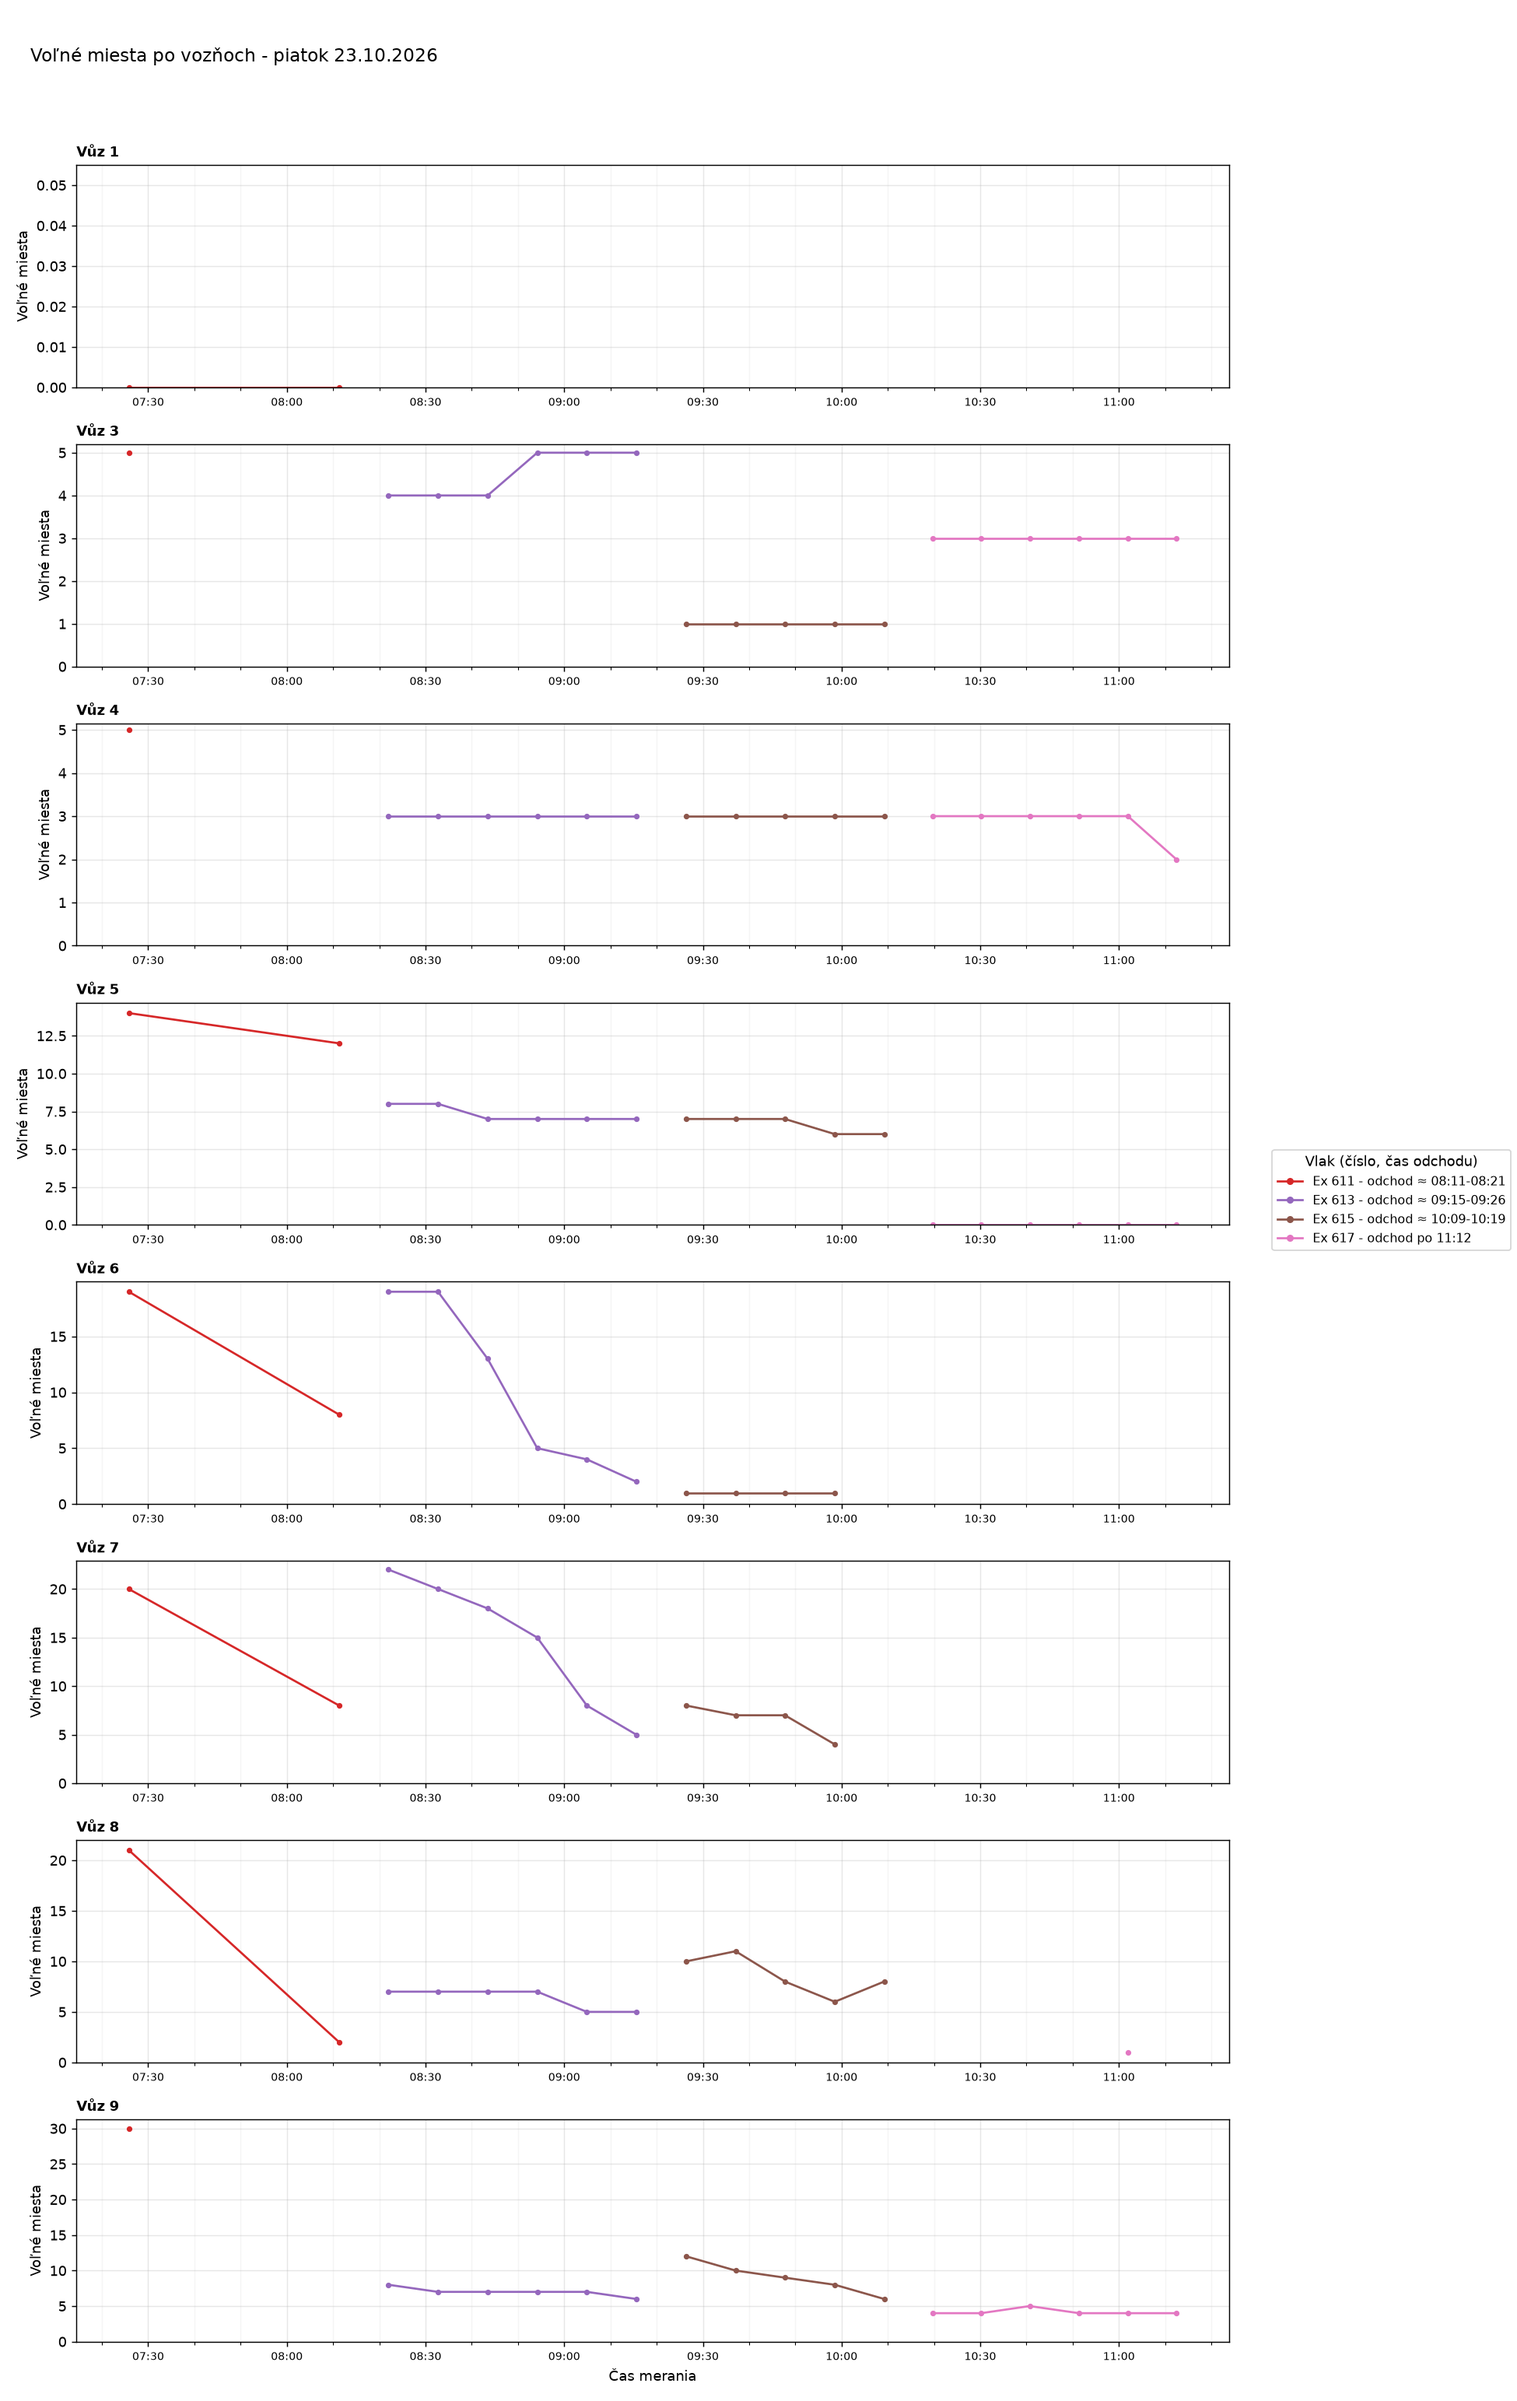
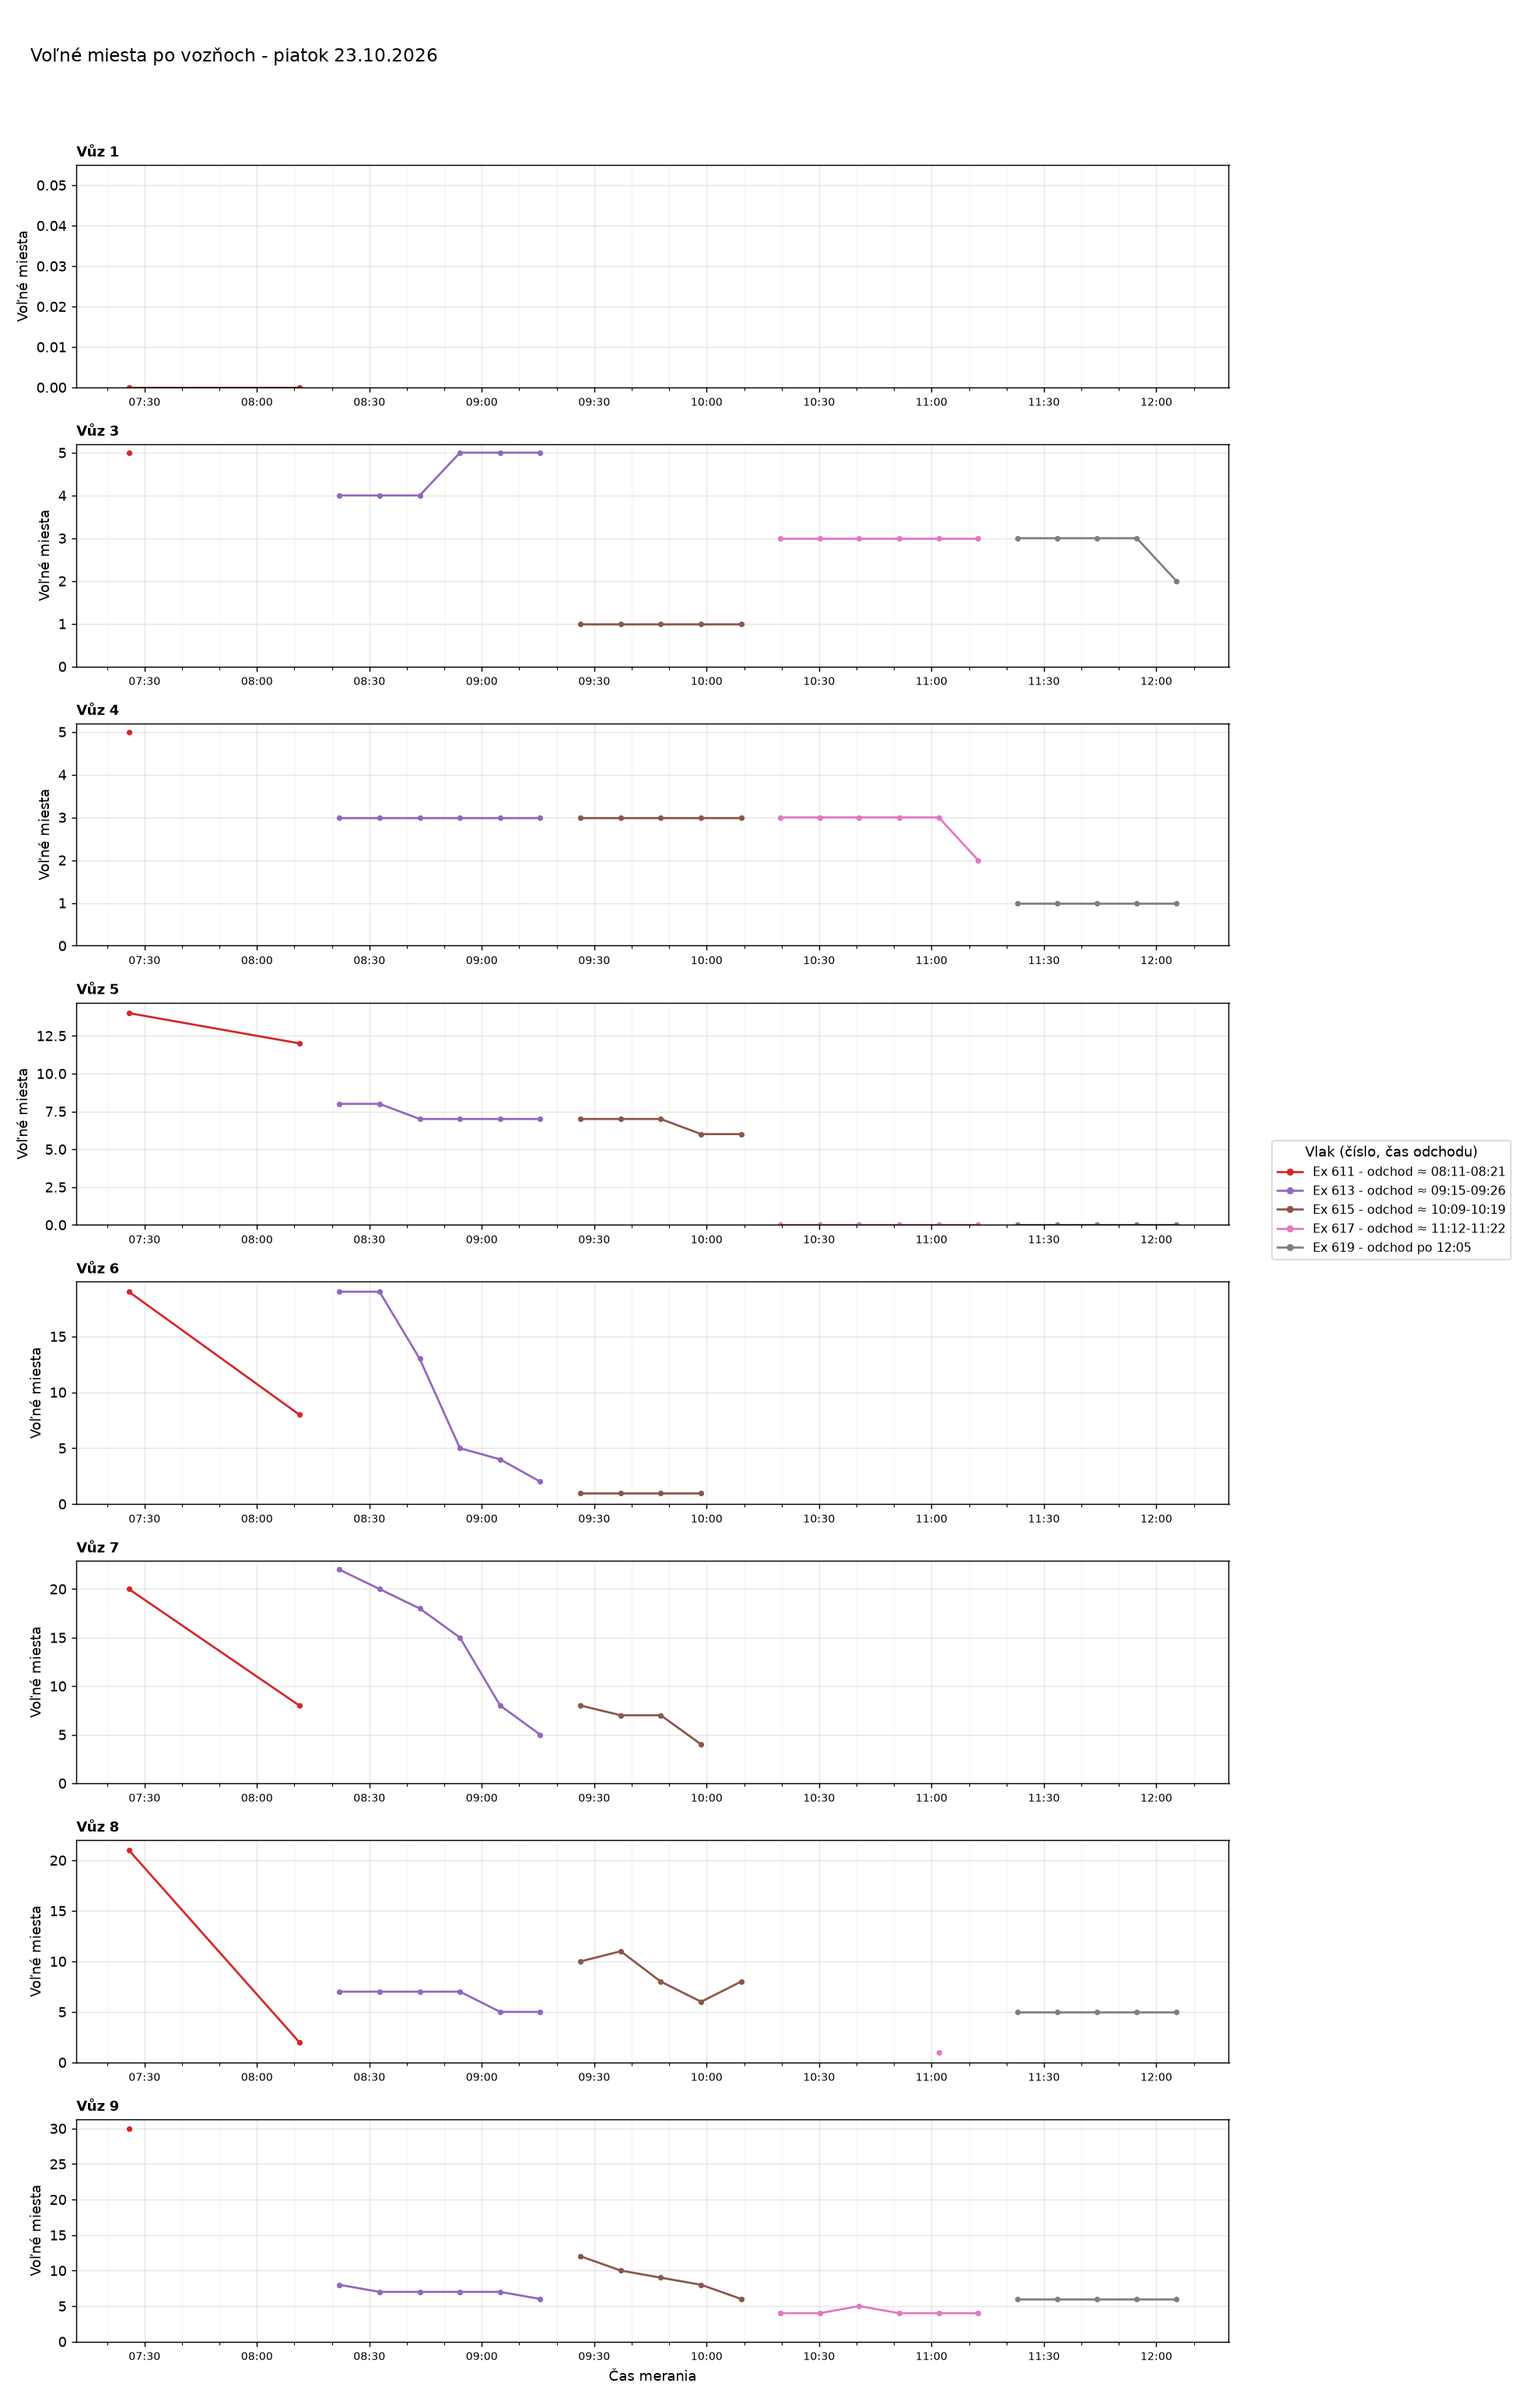
Aktualizácia grafov 2026-10-23 12:19

Changed region(s): [[0.8308, 0.4666, 1.0, 0.5288]]

diff --git a/index.html b/index.html
@@ -35,7 +35,7 @@ h2.oddiel{margin:36px 0 0;font-size:1.4rem}
 <body>
 <main>
 <h1>Voľné miesta vo vlakoch</h1>
-<p class="muted">Posledné meranie: 23.10.2026 11:12 ·
+<p class="muted">Posledné meranie: 23.10.2026 12:05 ·
 <a href="data/obsadenost_data.csv">stiahnuť dáta (CSV)</a></p>
 <nav class="nav"><a href="#suhrn">Súhrn</a><a href="#statistiky">Štatistiky</a><a href="#historia">História grafov</a></nav>
 
@@ -44,7 +44,7 @@ h2.oddiel{margin:36px 0 0;font-size:1.4rem}
 <div class="tablewrap"><table>
 <thead><tr><th>Deň</th><th>Meraní</th><th>Vlakov</th><th>Čas meraní</th></tr></thead>
 <tbody>
-<tr><td><a href="#d2026-10-23">piatok 23.10.2026</a></td><td>19</td><td>4</td><td>07:25-11:12</td></tr>
+<tr><td><a href="#d2026-10-23">piatok 23.10.2026</a></td><td>24</td><td>5</td><td>07:25-12:05</td></tr>
 <tr><td><a href="#d2026-10-22">štvrtok 22.10.2026</a></td><td>80</td><td>11</td><td>00:08-16:10</td></tr>
 <tr><td><a href="#d2026-10-21">streda 21.10.2026</a></td><td>96</td><td>15</td><td>00:10-23:58</td></tr>
 <tr><td><a href="#d2026-10-20">utorok 20.10.2026</a></td><td>34</td><td>7</td><td>13:55-23:50</td></tr>
